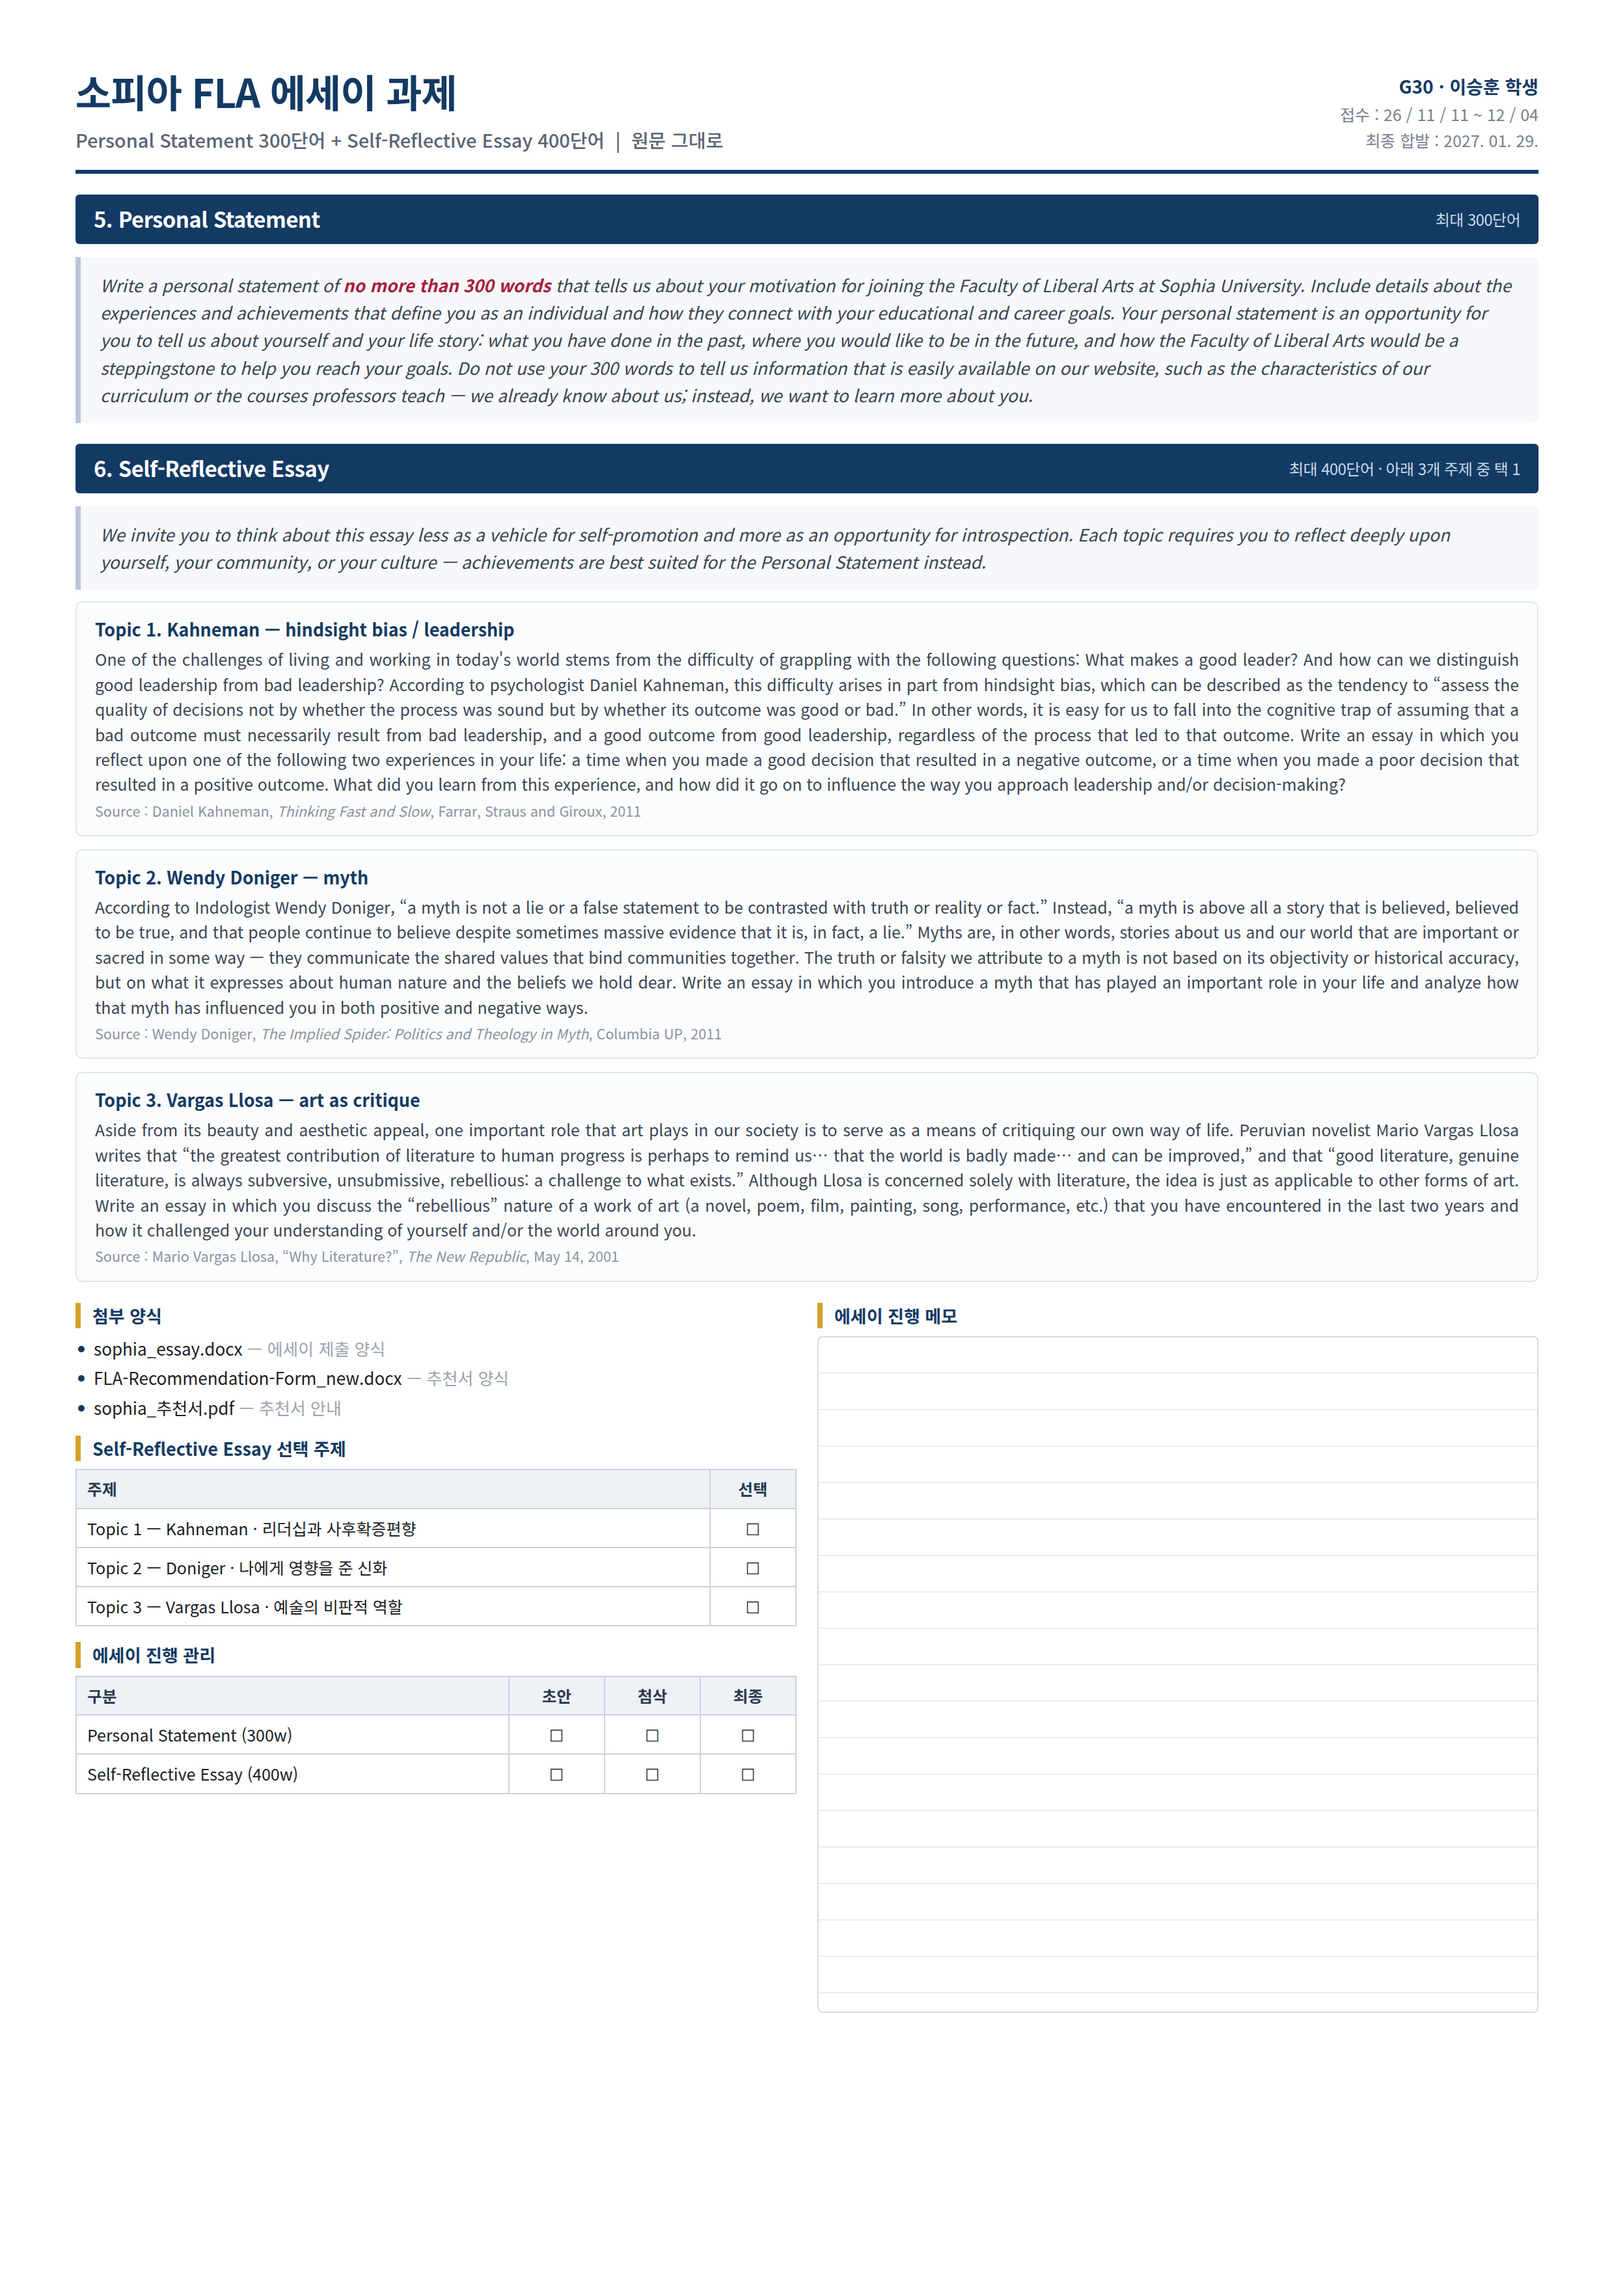
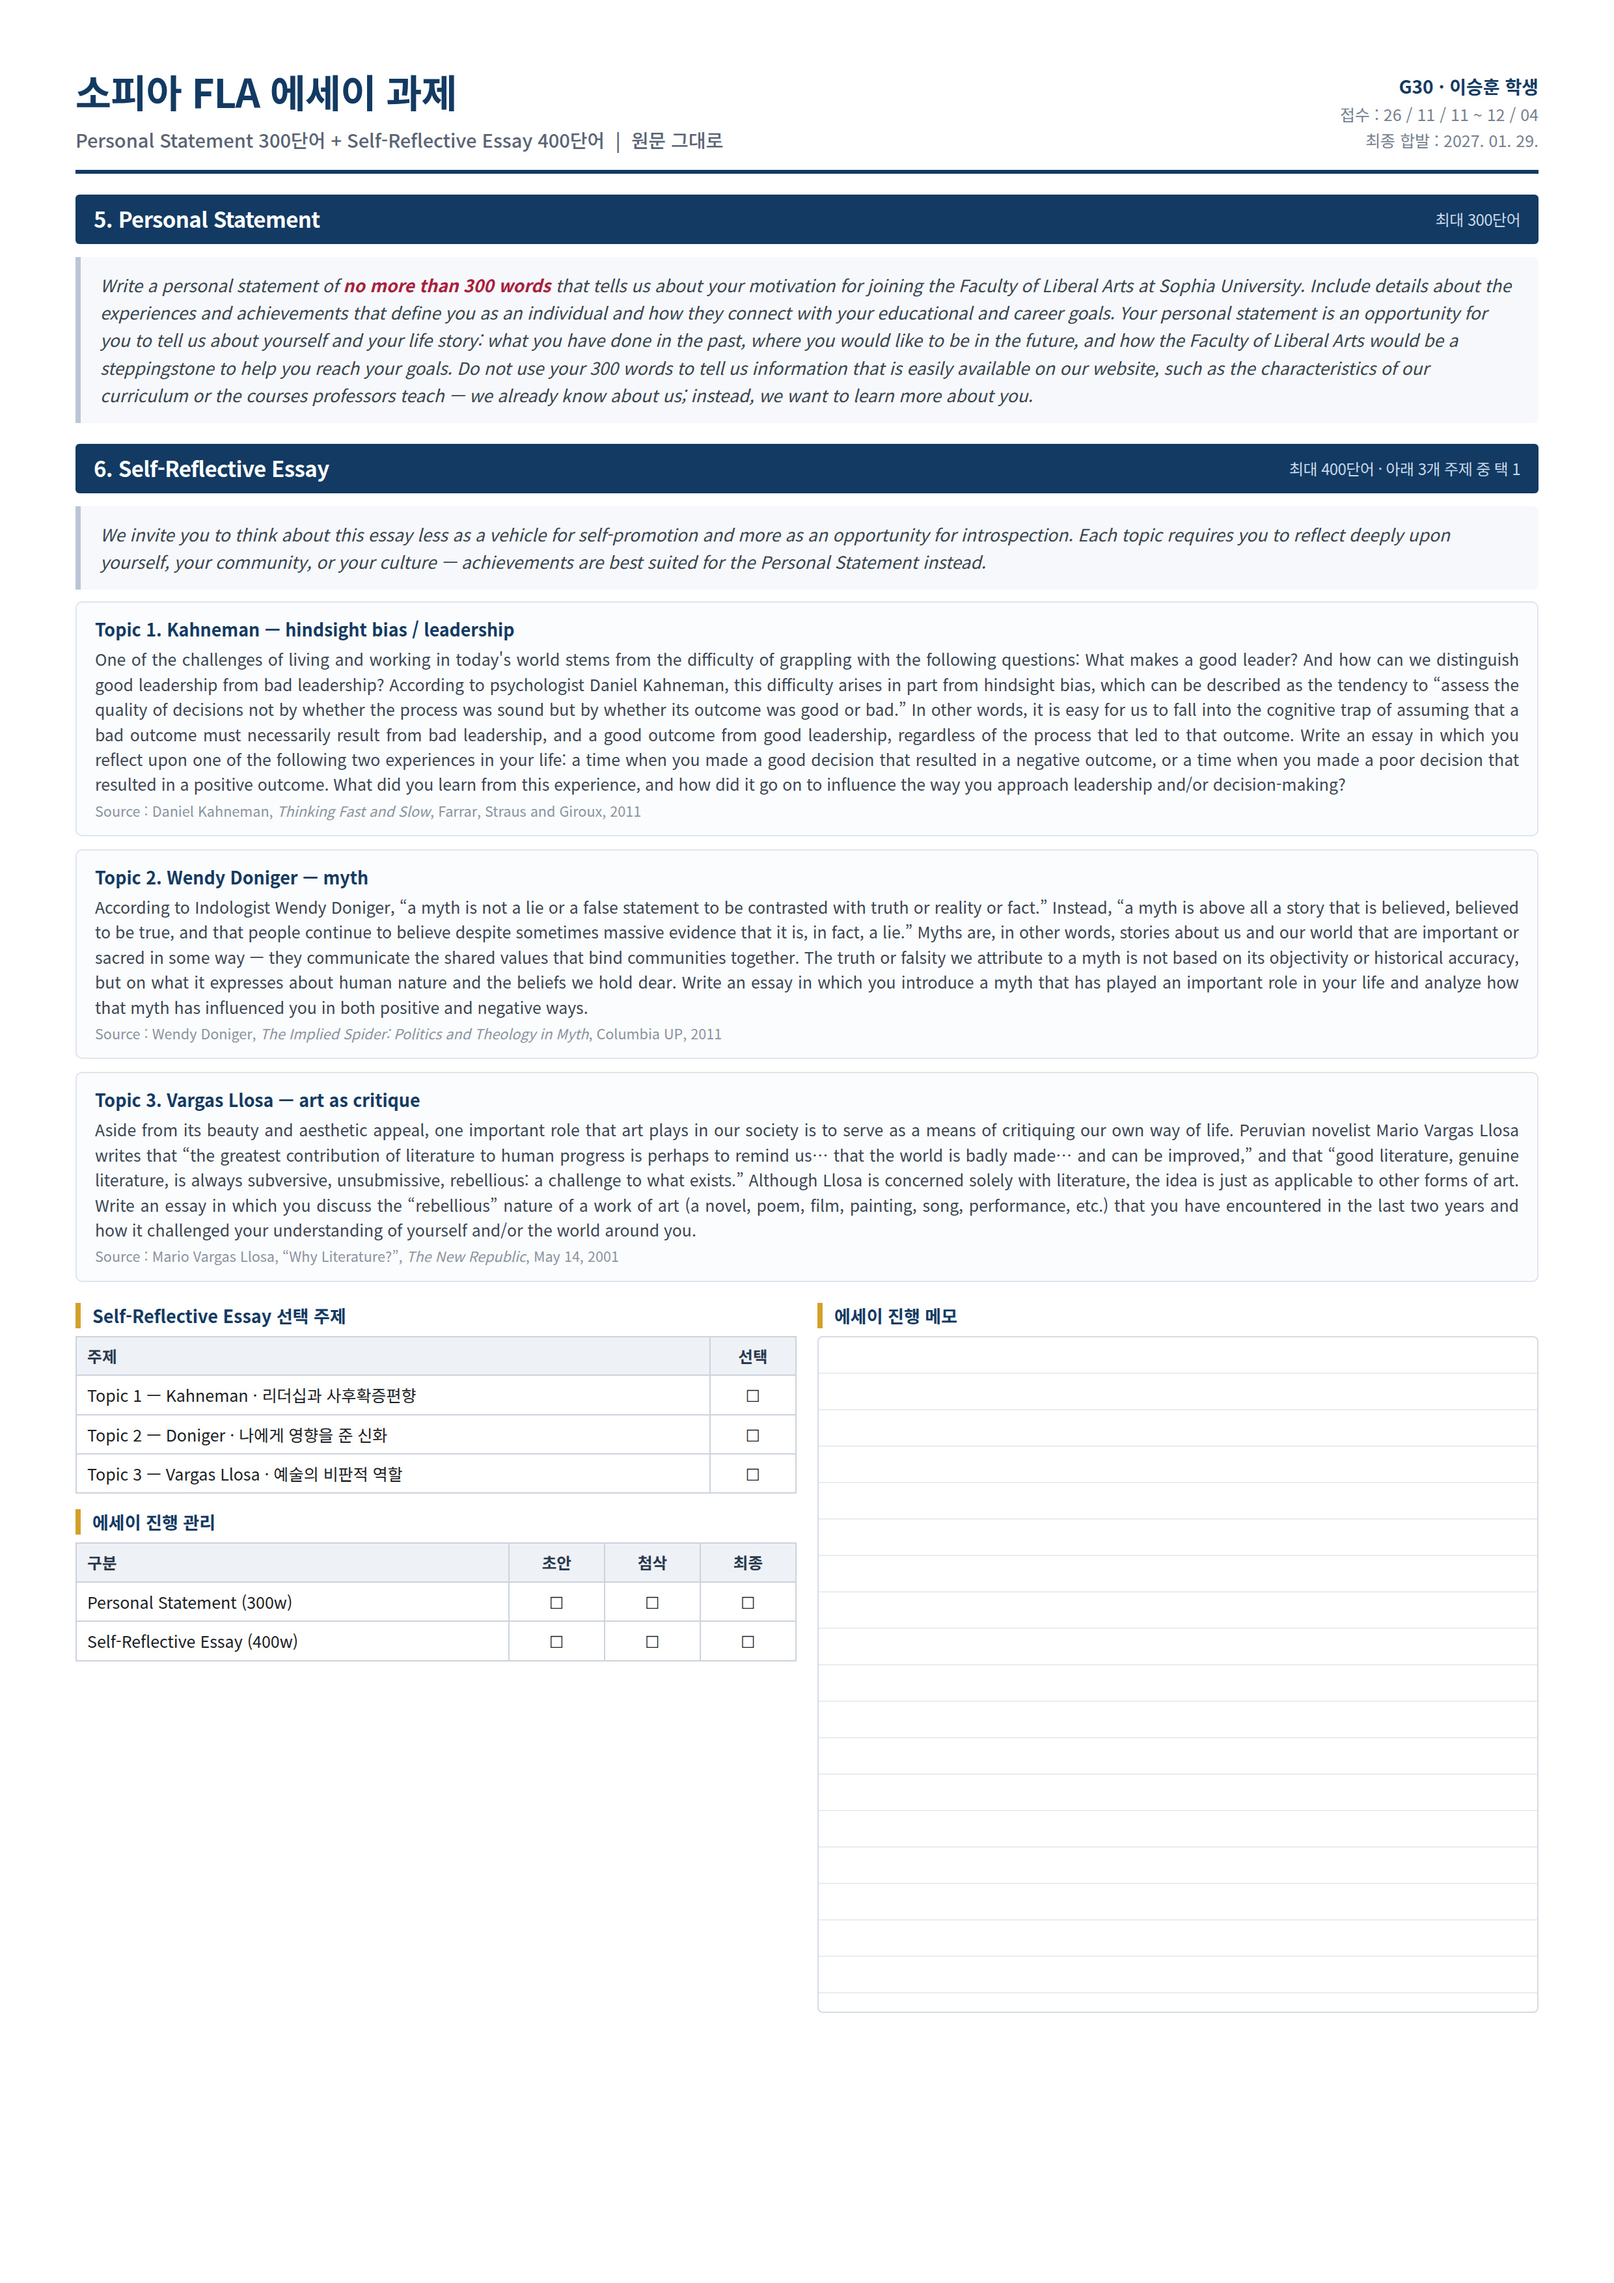
Remove attachment forms list from page 2
에세이/추천서 첨부 양식(sophia_essay.docx 등) 목록을 2페이지에서 삭제했습니다.

Claude-Session: https://claude.ai/code/session_019NRQ6gg8wpAkjDxBCSfVu6

Changed region(s): [[0.031, 0.5593, 0.3105, 0.7768], [0.3105, 0.6525, 0.4968, 0.7457], [0.4347, 0.5904, 0.4968, 0.6214]]

diff --git a/g30/이승훈/sophia_a4.html b/g30/이승훈/sophia_a4.html
@@ -294,13 +294,7 @@
 
 <div class="two" style="margin-top:16px;">
   <div>
-    <h3 style="margin-top:0;">첨부 양식</h3>
-    <ul style="font-size:12.5px;">
-      <li>sophia_essay.docx <span class="muted">— 에세이 제출 양식</span></li>
-      <li>FLA-Recommendation-Form_new.docx <span class="muted">— 추천서 양식</span></li>
-      <li>sophia_추천서.pdf <span class="muted">— 추천서 안내</span></li>
-    </ul>
-    <h3>Self-Reflective Essay 선택 주제</h3>
+    <h3 style="margin-top:0;">Self-Reflective Essay 선택 주제</h3>
     <table style="font-size:12.5px;">
       <tr><th class="l" style="text-align:left;">주제</th><th style="width:66px;">선택</th></tr>
       <tr><td class="l">Topic 1 — Kahneman · 리더십과 사후확증편향</td><td>☐</td></tr>
